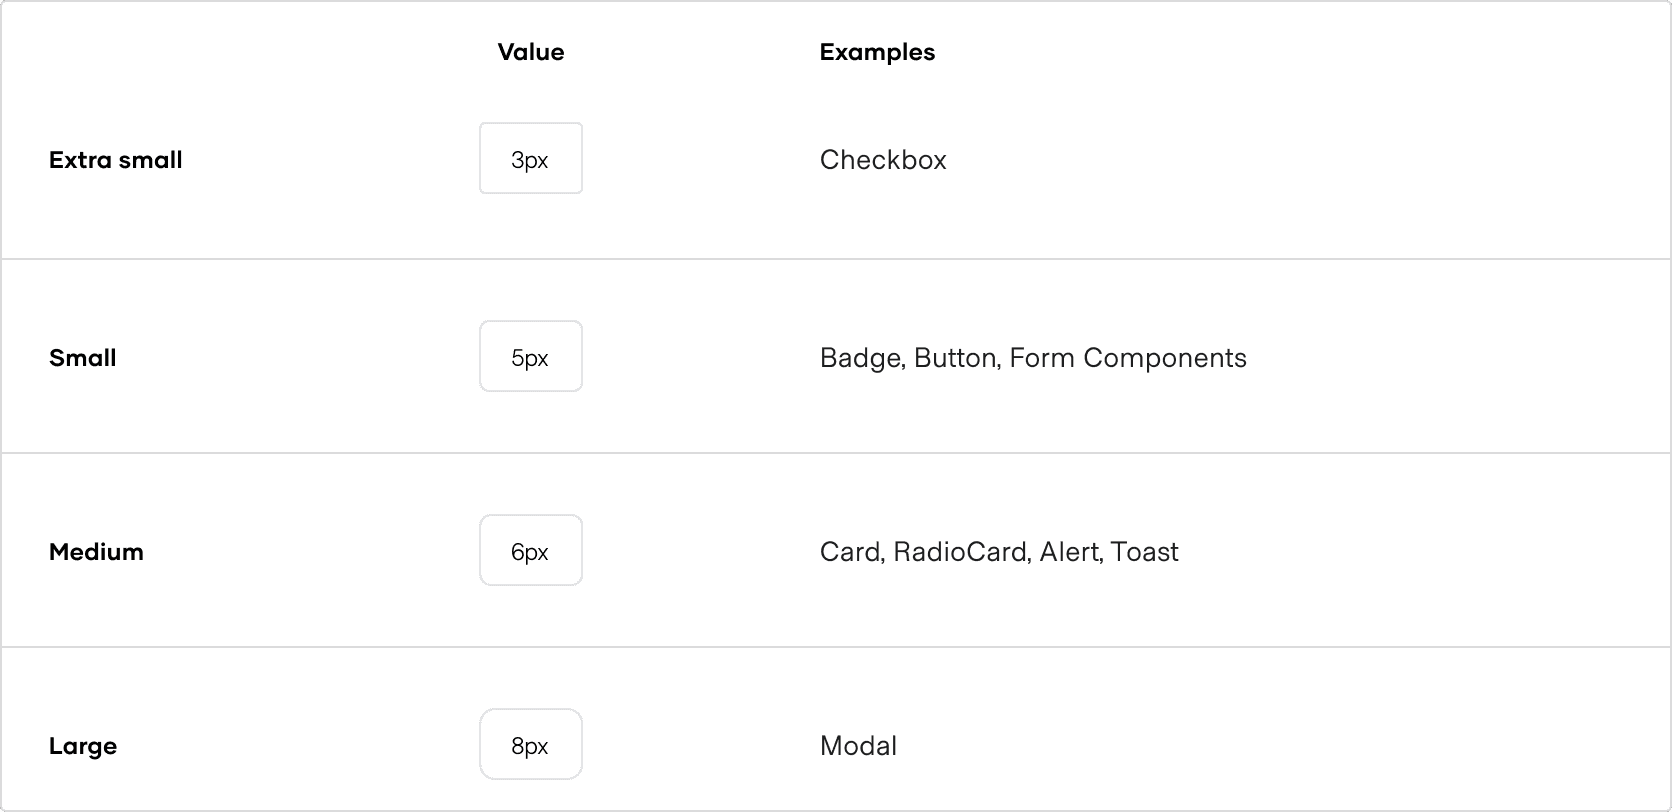
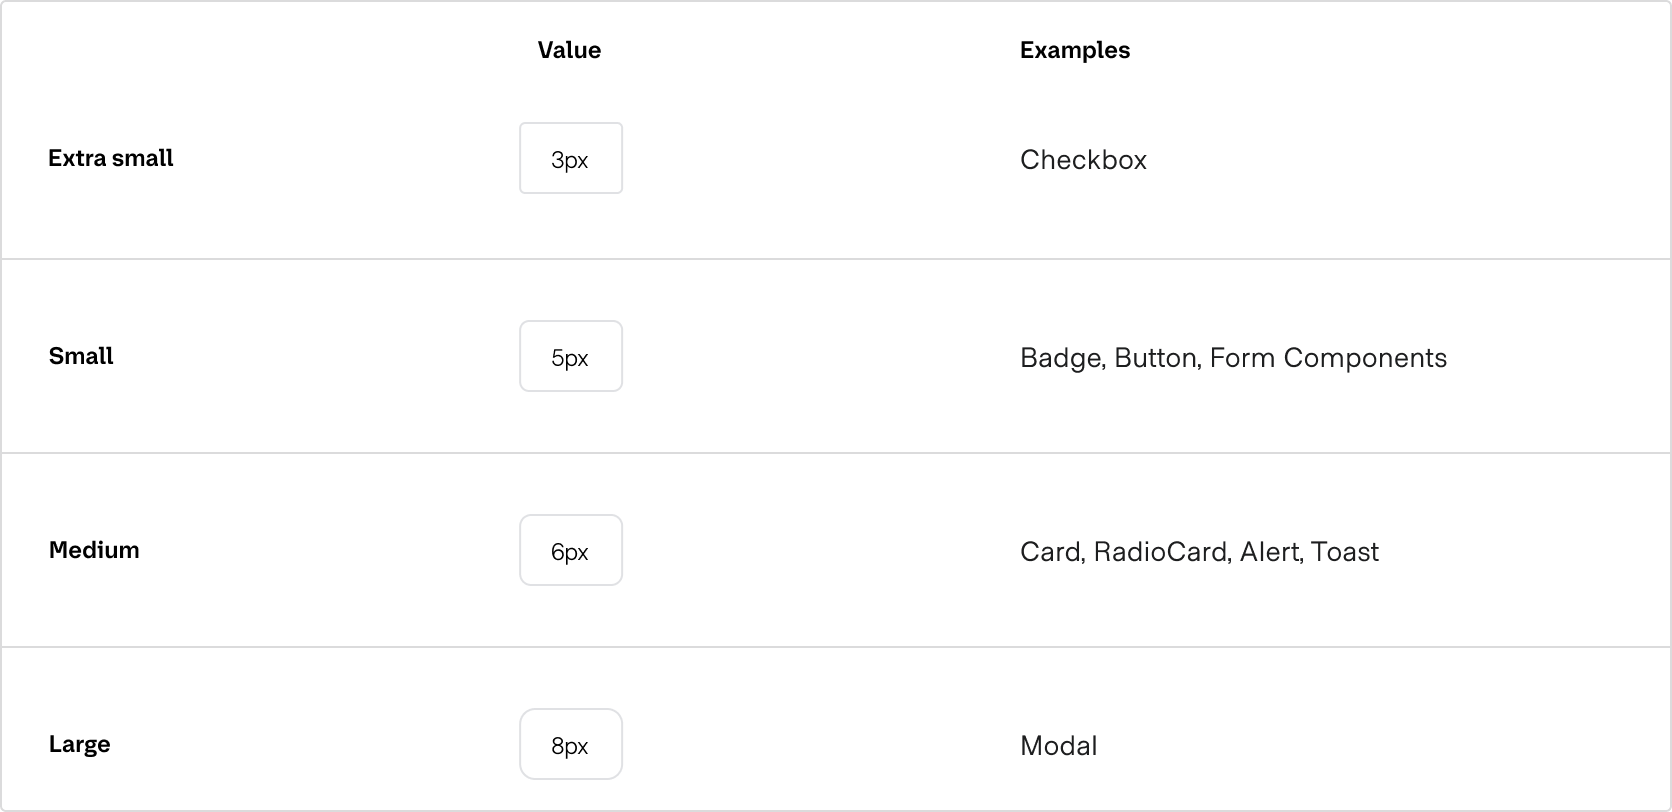
added “Carbonization” tab (and content) to “Foundations/Borders” page
(and updated existing image/table)

diff --git a/website/docs/foundations/border/partials/carbonization/index.md b/website/docs/foundations/border/partials/carbonization/index.md
@@ -1,0 +1,6 @@
+## Border radius in Carbon
+
+In Carbon, most of the border radiuses used in the UI are squared, so these are the updated values:
+
+![Examples of Border Radius values, in HDS and Carbon](/assets/foundations/borders/foundations-borders_carbonization.png)
+

diff --git a/website/docs/foundations/border/index.md b/website/docs/foundations/border/index.md
@@ -14,3 +14,7 @@ previewImage: assets/illustrations/foundations/border.jpg
 <section data-tab="Code">
   @include "partials/code/how-to-use.md"
 </section>
+
+<section data-tab="Carbonization">
+  @include "partials/carbonization/index.md"
+</section>
